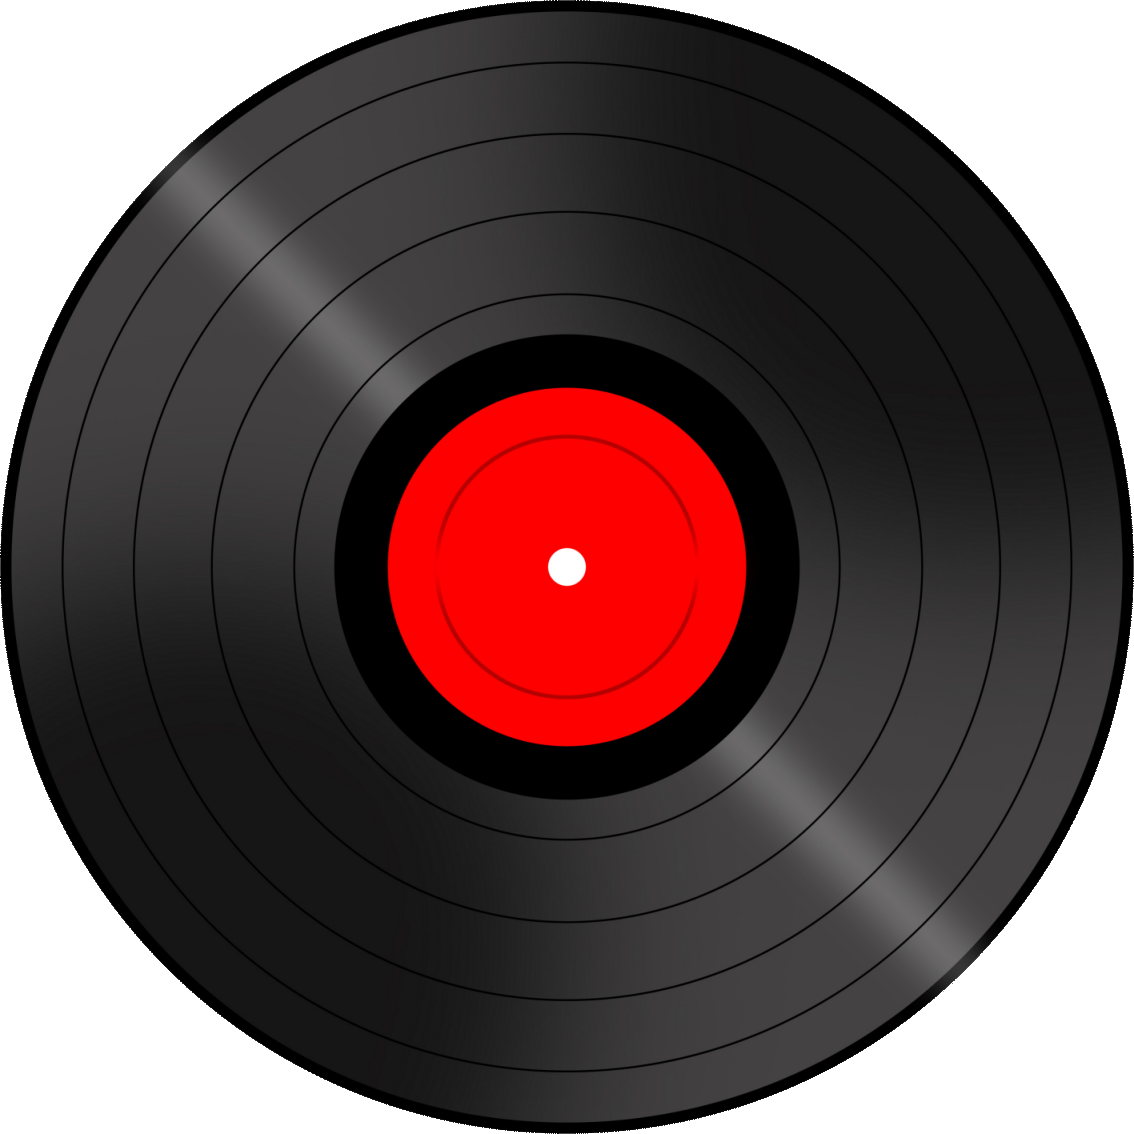
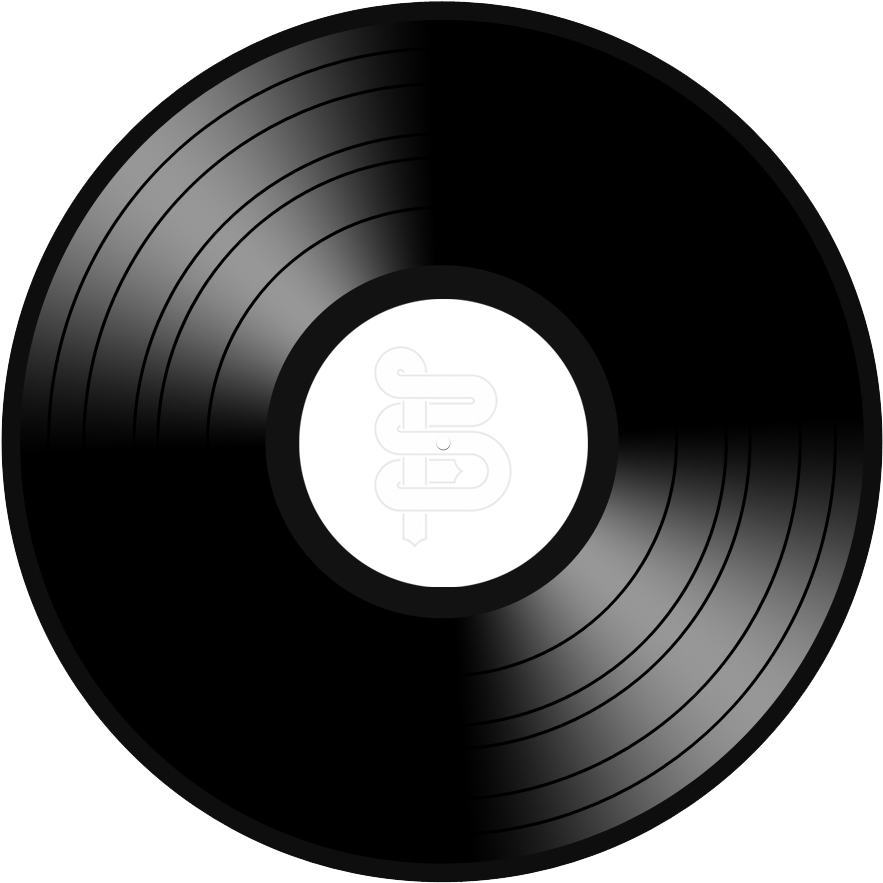
feat: substituir vinil e remover reflexos extras

diff --git a/components/Vinyl.module.css b/components/Vinyl.module.css
@@ -31,64 +31,6 @@
   pointer-events: none;
 }
 
-.vinyl::before {
-  content: "";
-  position: absolute;
-  inset: 0;
-  border-radius: inherit;
-  background:
-    conic-gradient(from 8deg,
-      transparent 0 7%,
-      rgba(255,255,255,.055) 10%,
-      rgba(255,255,255,.01) 16%,
-      transparent 23% 48%,
-      rgba(255,255,255,.035) 56%,
-      transparent 67% 100%);
-  mix-blend-mode: screen;
-  opacity: .58;
-  z-index: 1;
-  pointer-events: none;
-}
-
-.vinyl::after {
-  content: "";
-  position: absolute;
-  inset: 1.5%;
-  border-radius: inherit;
-  box-shadow:
-    inset 0 0 0 1px rgba(255,255,255,.045),
-    inset 12px 18px 30px rgba(255,255,255,.025),
-    inset -18px -20px 35px rgba(0,0,0,.55);
-  pointer-events: none;
-  z-index: 1;
-}
-
-.grooves {
-  position: absolute;
-  inset: 5.5%;
-  border-radius: 50%;
-  background:
-    repeating-radial-gradient(circle,
-      transparent 0 7px,
-      rgba(255,255,255,.032) 7.3px 7.8px,
-      rgba(0,0,0,.2) 8px 8.5px,
-      transparent 8.8px 12px);
-  z-index: 2;
-  opacity: .14;
-}
-
-.runout {
-  position: absolute;
-  inset: 30.5%;
-  border-radius: 50%;
-  border: 1px solid rgba(255,255,255,.08);
-  box-shadow:
-    0 0 0 5px rgba(0,0,0,.16),
-    0 0 0 8px rgba(255,255,255,.025),
-    0 0 0 12px rgba(0,0,0,.2);
-  z-index: 2;
-}
-
 .label {
   position: absolute;
   inset: 34%;

diff --git a/components/Vinyl.tsx b/components/Vinyl.tsx
@@ -20,8 +20,6 @@ export function Vinyl({
     <div className={styles.perspective} aria-label={album ? `Disco do álbum ${album}` : "Disco de vinil"}>
       <div className={styles.vinyl} ref={ref}>
         <img className={styles.discTexture} src="/vinyl-selected.png" alt="" />
-        <div className={styles.grooves} />
-        <div className={styles.runout} />
 
         <div className={styles.label}>
           {image ? (
